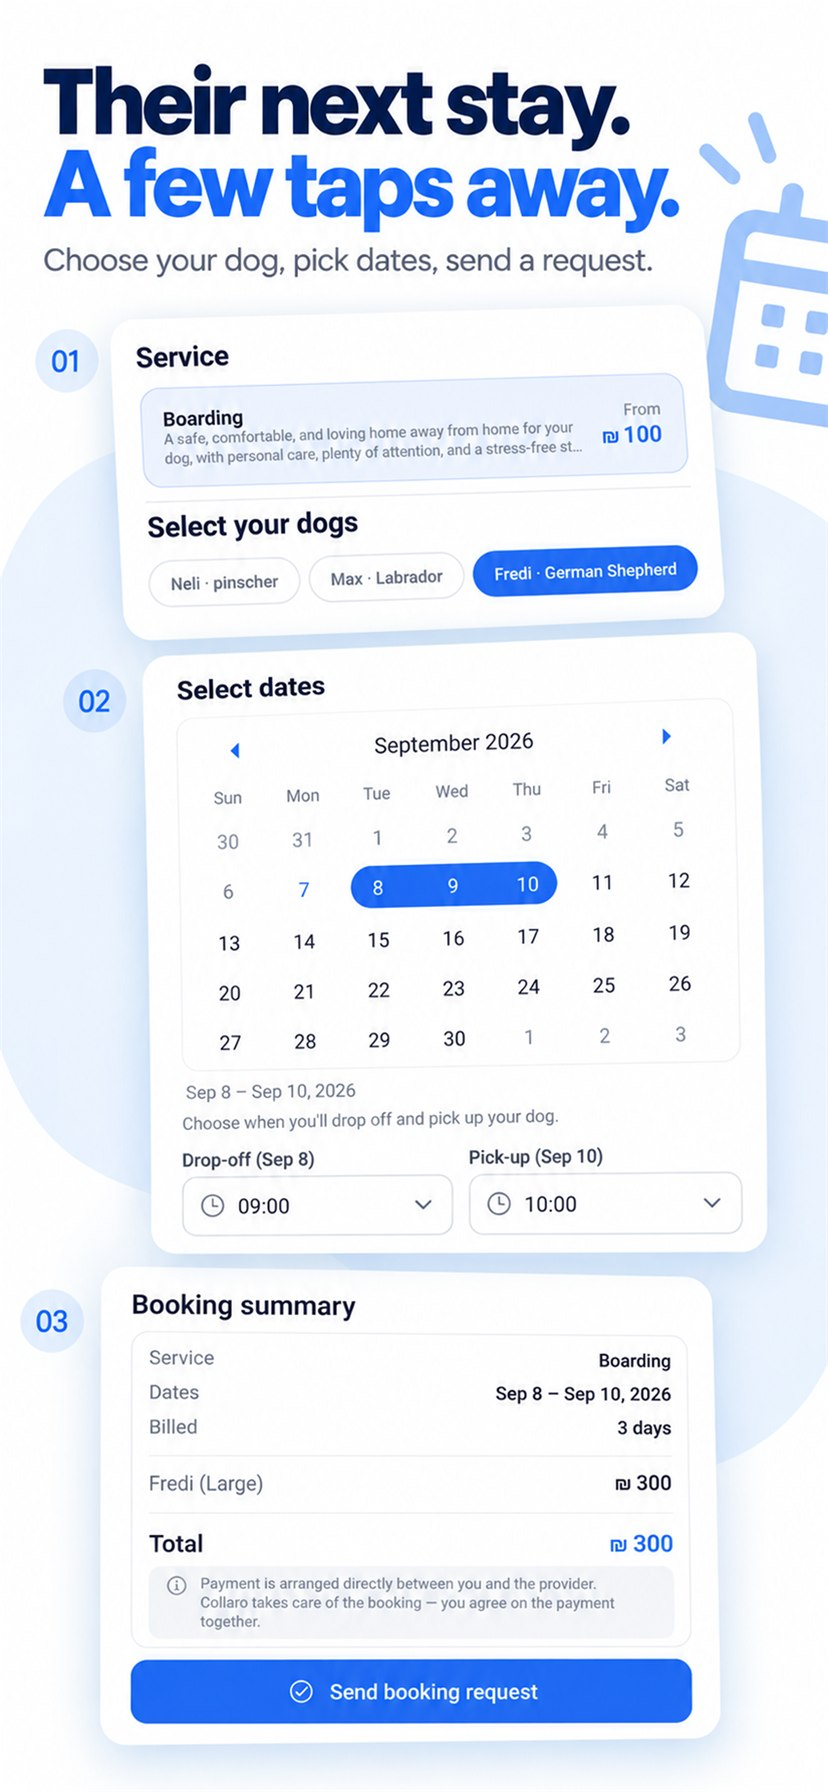
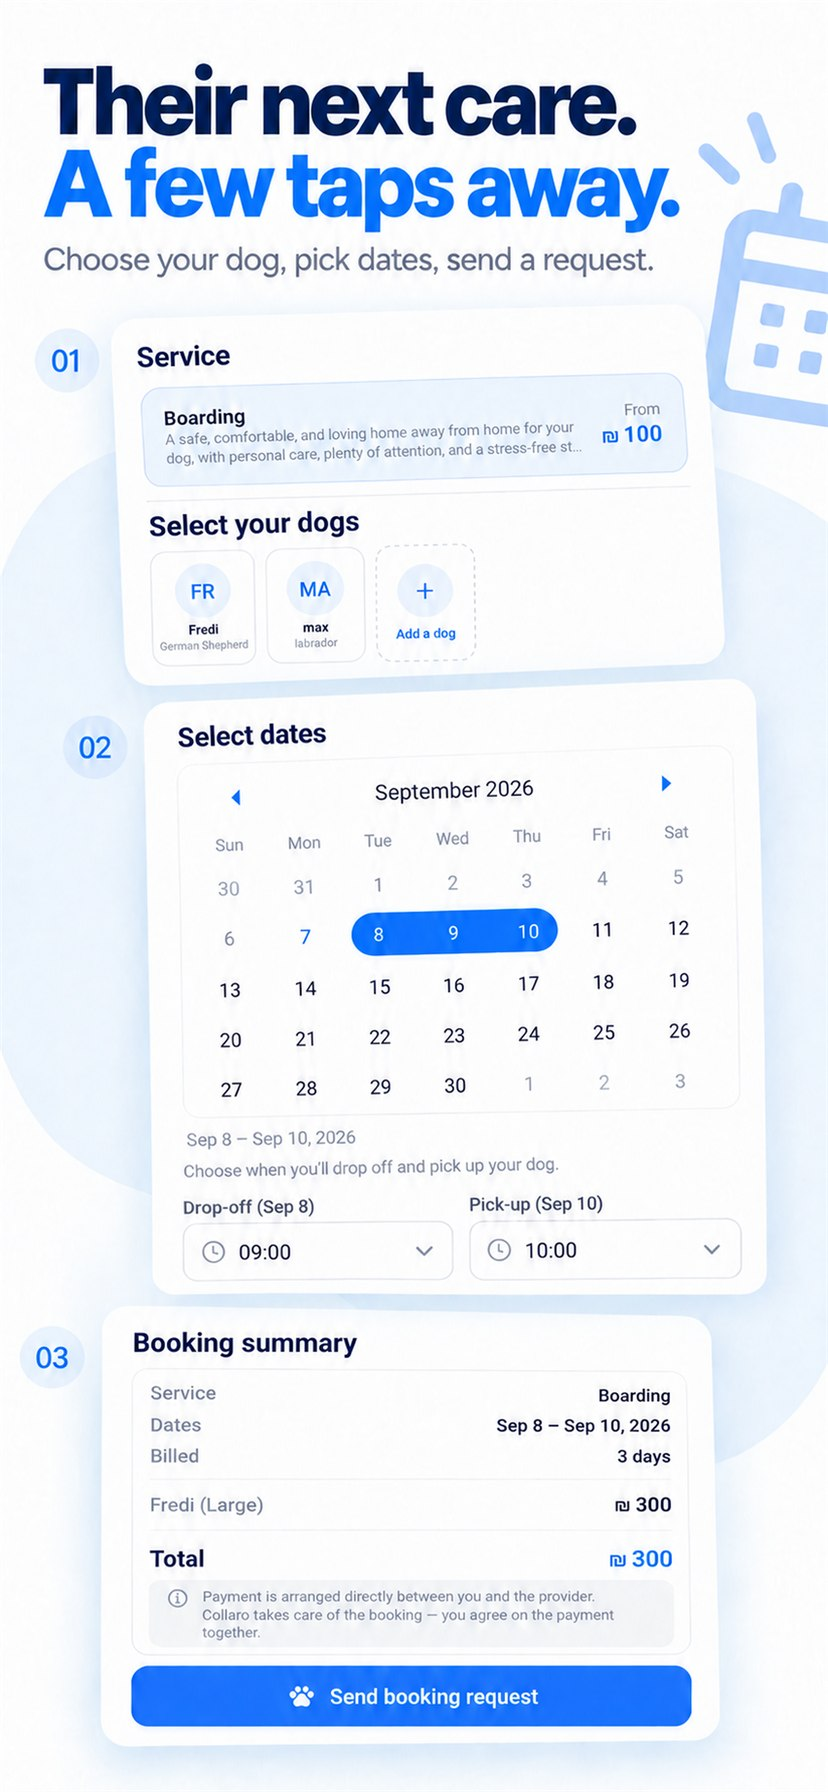
Update booking flow and dashboard screenshots
Regenerate booking-flow and dashboard artwork (en + he) from the new store
screenshots via scripts/optimize-screenshots.ps1. The booking-flow headline
changed from "Their next stay" to "Their next care", so bookingFlowAlt is
updated in both locales and docs/ rebuilt.

diff --git a/docs/he/index.html b/docs/he/index.html
@@ -168,7 +168,7 @@
             </li>
             <li class="screens__item reveal">
               <figure class="shot">
-                <img src="/assets/img/screenshots/booking-flow.he.jpg" alt="צילום מסך מהחנות בכותרת ״השהות הבאה שלהם. במרחק כמה לחיצות.״ — תהליך ההזמנה: בחירת שירות והכלבים שלכם, בחירת תאריכים ושעות הבאה ואיסוף, ואז סיכום ההזמנה עם הסכום הכולל וכפתור לשליחת בקשת הזמנה" width="828" height="1792" loading="lazy" />
+                <img src="/assets/img/screenshots/booking-flow.he.jpg" alt="צילום מסך מהחנות בכותרת ״הטיפול הבא שלהם. במרחק כמה לחיצות.״ — תהליך ההזמנה: בחירת שירות והכלבים שלכם, בחירת תאריכים ושעות הבאה ואיסוף, ואז סיכום ההזמנה עם הסכום הכולל וכפתור לשליחת בקשת הזמנה" width="828" height="1792" loading="lazy" />
               </figure>
               <p class="screens__title">הזמינו בכמה הקשות</p>
             </li>

diff --git a/docs/index.html b/docs/index.html
@@ -168,7 +168,7 @@
             </li>
             <li class="screens__item reveal">
               <figure class="shot">
-                <img src="/assets/img/screenshots/booking-flow.en.jpg" alt="Store screenshot titled “Their next stay. A few taps away.” — the booking flow: choose a service and your dogs, pick dates and drop-off/pick-up times, then a booking summary with the total and a Send booking request button" width="828" height="1792" loading="lazy" />
+                <img src="/assets/img/screenshots/booking-flow.en.jpg" alt="Store screenshot titled “Their next care. A few taps away.” — the booking flow: choose a service and your dogs, pick dates and drop-off/pick-up times, then a booking summary with the total and a Send booking request button" width="828" height="1792" loading="lazy" />
               </figure>
               <p class="screens__title">Book in a few taps</p>
             </li>
